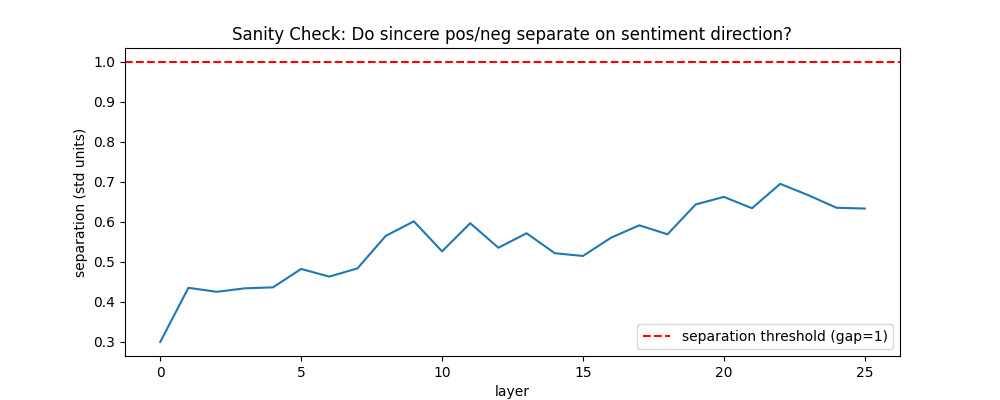
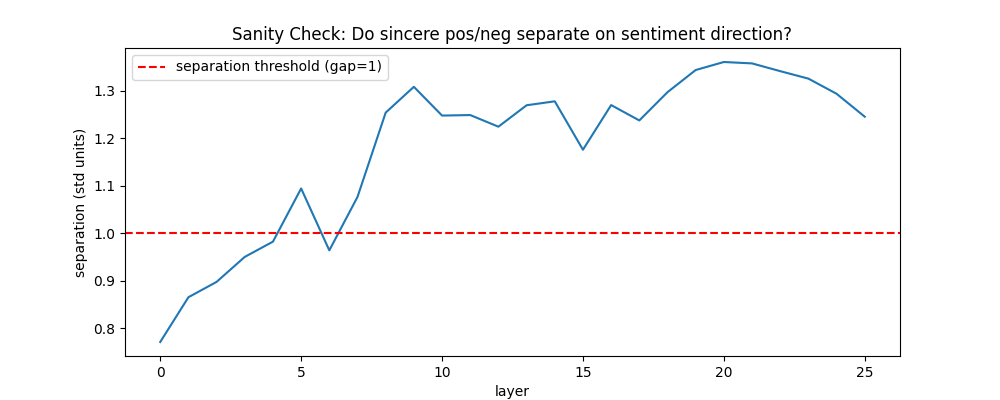
DATAPREP: new separation of 0.5 to -0.5

diff --git a/DataPrep.py b/DataPrep.py
@@ -22,16 +22,16 @@ pairs_df = df[(df['sarcastic'] == 1) & (df['rephrase'].notna())]
 # GRAB sincere text
 baseline_df = df[df['sarcastic'] == 0]
 
-# BUILD categories, remove neutral tweets between 0.3 and 3
+# BUILD categories, remove neutral tweets between 0.5 and 3
 classes = {
-    "sarcastic_surfpos":    pairs_df[pairs_df['tweet_sentiment'] > 0.3]['tweet'].tolist(),
-    "paired_sincere_pos":   pairs_df[pairs_df['tweet_sentiment'] > 0.3]['rephrase'].tolist(),
+    "sarcastic_surfpos":    pairs_df[pairs_df['tweet_sentiment'] > 0.5]['tweet'].tolist(),
+    "paired_sincere_pos":   pairs_df[pairs_df['tweet_sentiment'] > 0.5]['rephrase'].tolist(),
     
-    "sarcastic_surfneg":    pairs_df[pairs_df['tweet_sentiment'] < -0.3]['tweet'].tolist(),
-    "paired_sincere_neg":   pairs_df[pairs_df['tweet_sentiment'] < -0.3]['rephrase'].tolist(),
+    "sarcastic_surfneg":    pairs_df[pairs_df['tweet_sentiment'] < -0.5]['tweet'].tolist(),
+    "paired_sincere_neg":   pairs_df[pairs_df['tweet_sentiment'] < -0.5]['rephrase'].tolist(),
 
-    "baseline_sincere_pos": baseline_df[baseline_df['tweet_sentiment'] > 0.3]['tweet'].tolist(),
-    "baseline_sincere_neg": baseline_df[baseline_df['tweet_sentiment'] < -0.3]['tweet'].tolist(),
+    "baseline_sincere_pos": baseline_df[baseline_df['tweet_sentiment'] > 0.5]['tweet'].tolist(),
+    "baseline_sincere_neg": baseline_df[baseline_df['tweet_sentiment'] < -0.5]['tweet'].tolist(),
 }
 # PRINT for check
 print("--- Extracted Dataset Counts ---")
@@ -40,4 +40,4 @@ for category, texts in classes.items():
 
 # PICKLE results
 import pickle
-pickle.dump(classes, open("classes.pkl", "wb"))
+pickle.dump(classes, open("classes_separation0.5.pkl", "wb"))

diff --git a/ActiviationProjection.py b/ActiviationProjection.py
@@ -23,7 +23,7 @@ PAD_ID = model.tokenizer.pad_token_id
 
 #------------------------------INPUT-----------------------------------------
 # GRAB classes
-classes = pickle.load(open("classes.pkl", "rb"))
+classes = pickle.load(open("classes_separation0.5.pkl", "rb"))
 # GRAB sentiment dir
 #sentiment_dir = pickle.load(open("sentiment_dir.pkl", "rb"))
 # make shift before sentiment is ready
@@ -65,7 +65,6 @@ proj_sets = {
     "baseline_sincere_neg": classes["baseline_sincere_neg"][N_DIRECTION_TRAIN:],
 }
 
-# 
 
 
 # sanity checking printout 